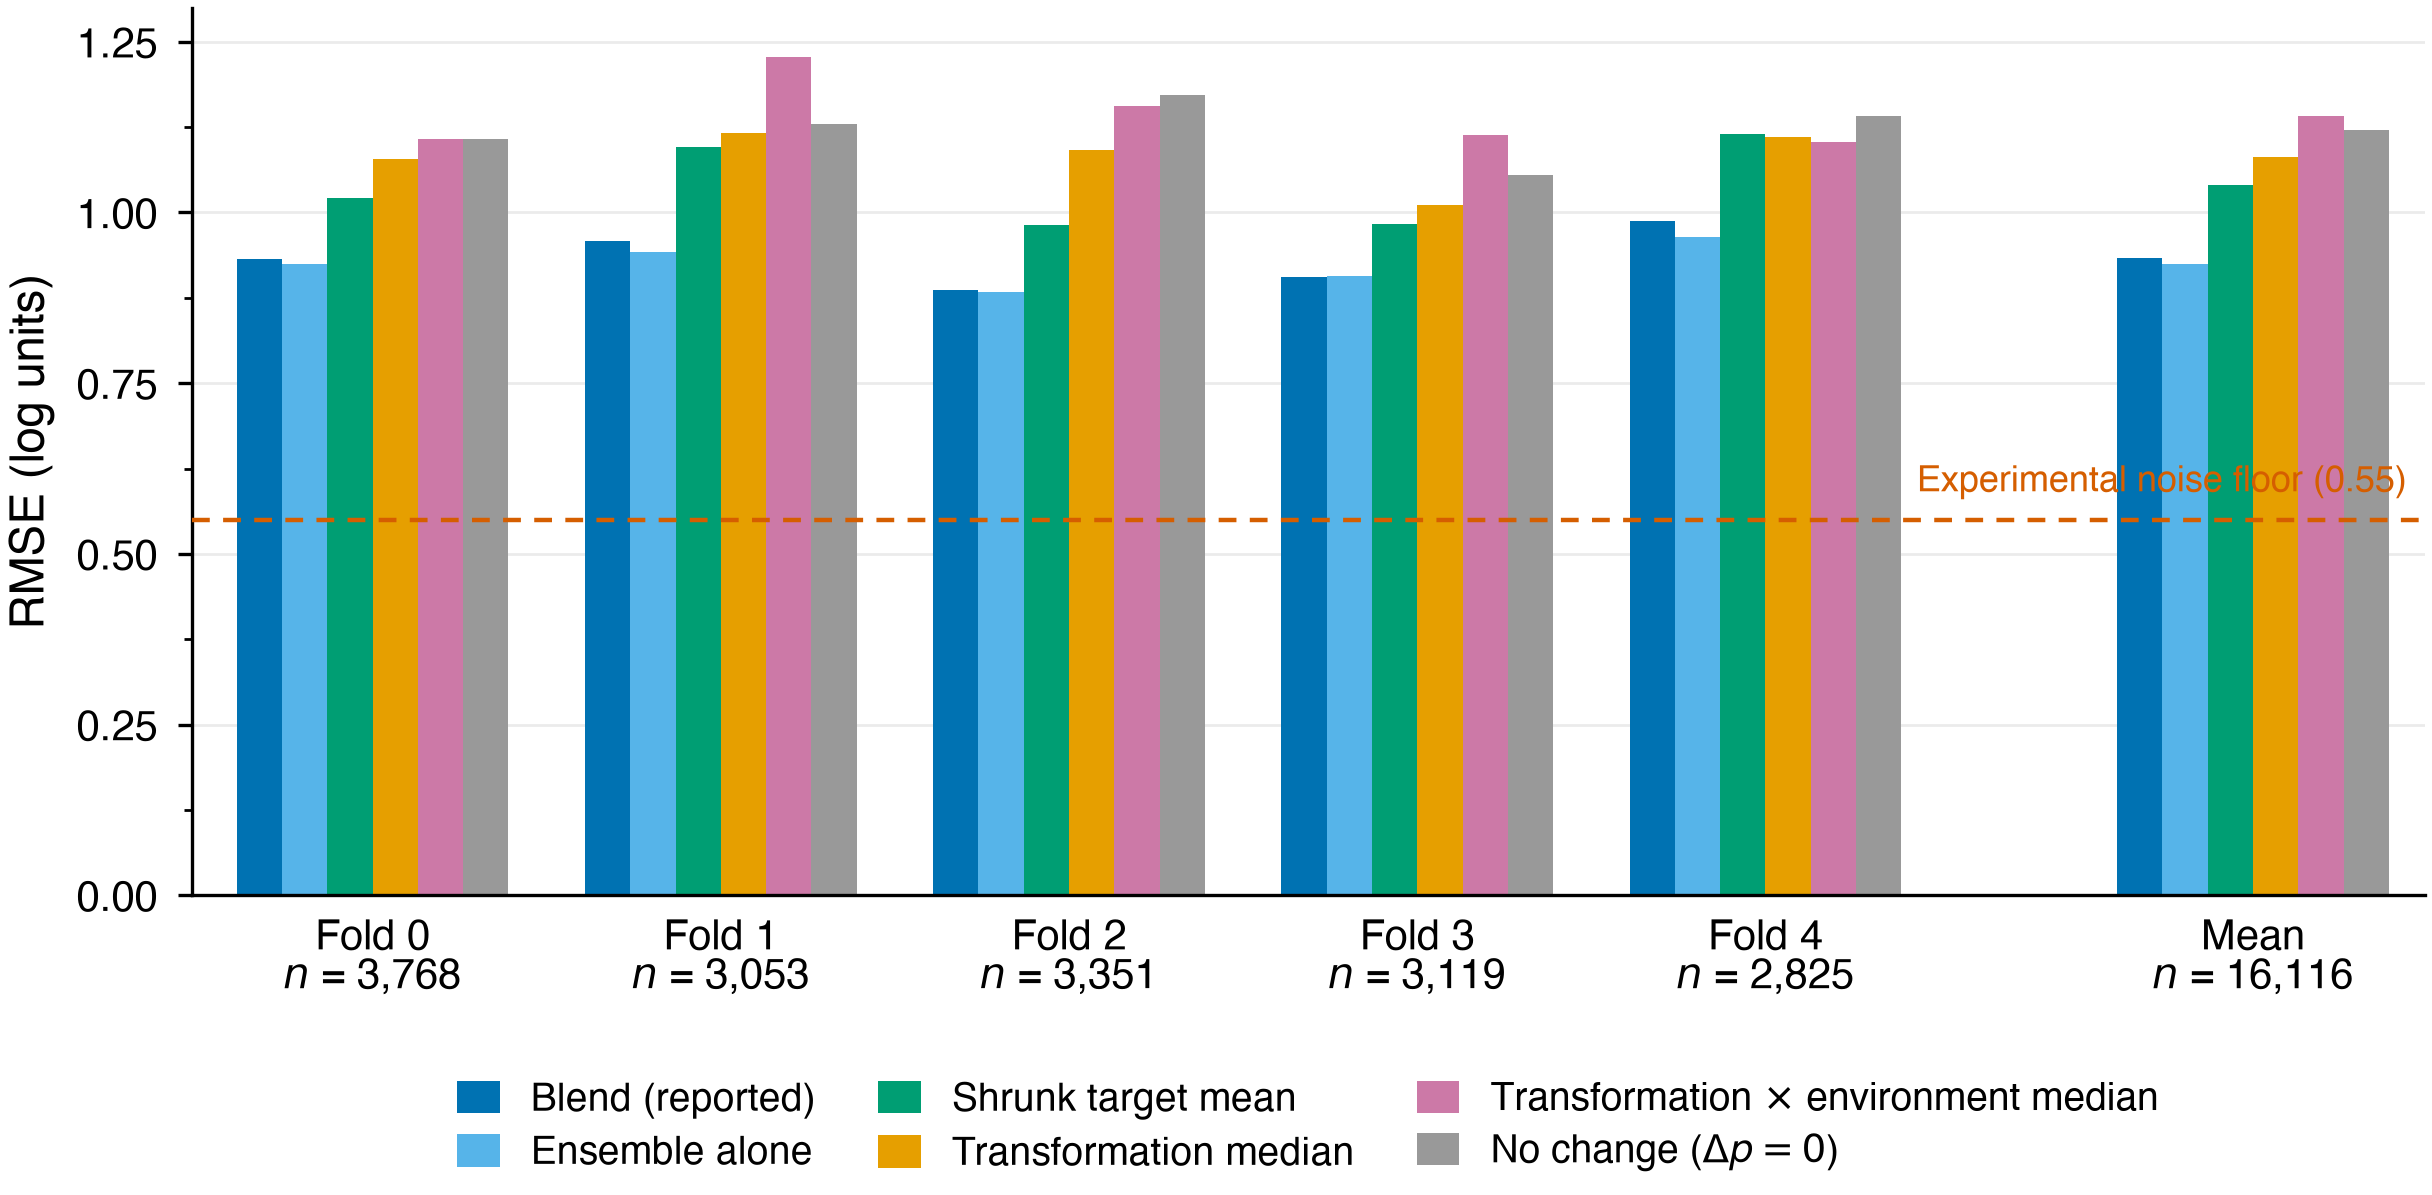
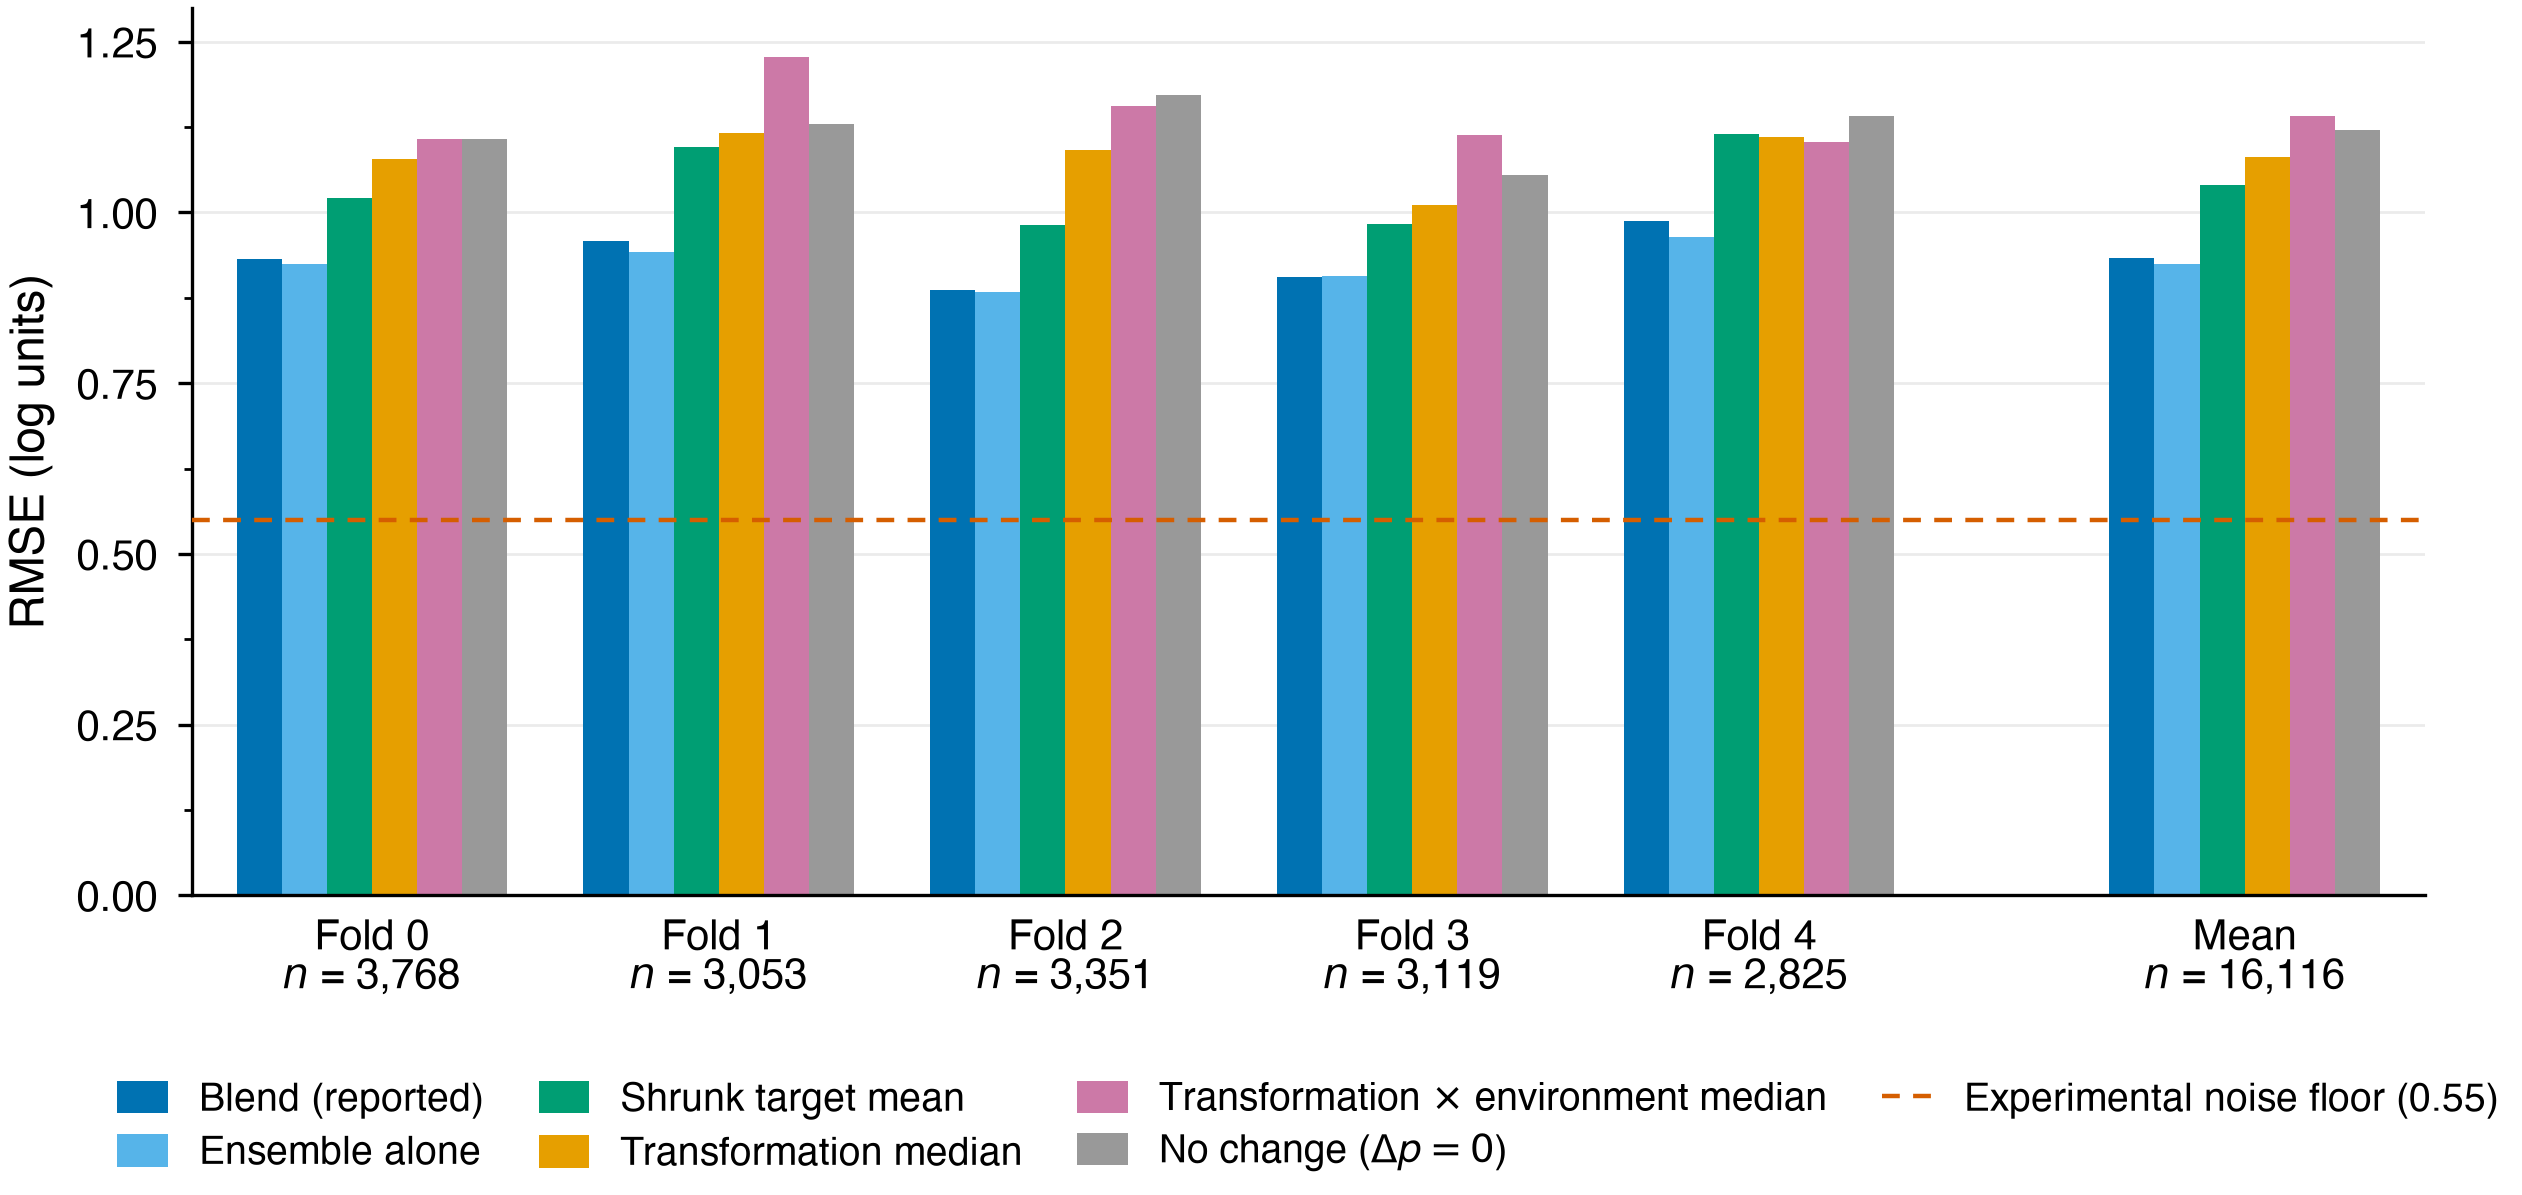
Move the noise-floor label off the bar chart and into the legend
Annotating the line on the plot put text inside the axes, which the rest of
the figure avoids. The dashed line now carries its own legend entry, and the
legend runs four columns so the seven entries fall in two rows.

diff --git a/app/make_figures.py b/app/make_figures.py
@@ -210,14 +210,12 @@ def rmse_by_fold(rows, baselines, stem):
         axes.bar(positions + (index - 2.5) * width, values, width, label=label,
                  color=colour, linewidth=0, zorder=2)
     axes.axhline(NOISE_FLOOR, color=VERMILLION, linewidth=0.8,
-                 linestyle=(0, (4, 3)), zorder=3)
-    axes.text(positions[-1] + 3.4 * width, NOISE_FLOOR + 0.03,
-              f"Experimental noise floor ({NOISE_FLOOR})", ha="right", va="bottom",
-              fontsize=6.5, color=VERMILLION)
+                 linestyle=(0, (4, 3)), zorder=3,
+                 label=f"Experimental noise floor ({NOISE_FLOOR})")
 
     axes.set_xticks(positions)
     axes.set_xticklabels(labels)
-    axes.set_xlim(positions[0] - 4 * width, positions[-1] + 3.8 * width)
+    axes.set_xlim(positions[0] - 4 * width, positions[-1] + 4 * width)
     axes.set_ylabel("RMSE (log units)")
     axes.set_ylim(0, 1.30)
     axes.yaxis.set_major_locator(MultipleLocator(0.25))
@@ -226,8 +224,12 @@ def rmse_by_fold(rows, baselines, stem):
     axes.tick_params(axis="y", which="minor", length=1.4, width=0.5)
     axes.grid(axis="y", color="0.92", linewidth=0.5, zorder=0)
     axes.set_axisbelow(True)
-    axes.legend(ncol=3, loc="upper center", bbox_to_anchor=(0.5, -0.17),
-                handlelength=1.1, handleheight=0.9, columnspacing=1.6,
+    handles, names = axes.get_legend_handles_labels()
+    order = [names.index(name) for name in series] + \
+            [i for i, name in enumerate(names) if name not in series]
+    axes.legend([handles[i] for i in order], [names[i] for i in order],
+                ncol=4, loc="upper center", bbox_to_anchor=(0.5, -0.17),
+                handlelength=1.3, handleheight=0.9, columnspacing=1.4,
                 labelspacing=0.4)
     save(figure, stem)
 
